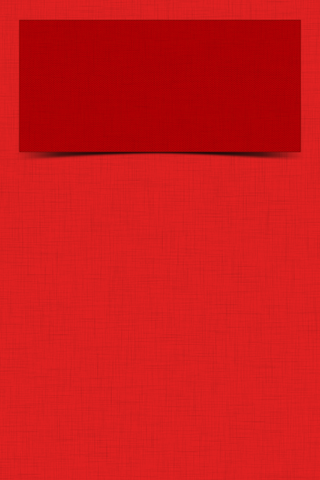
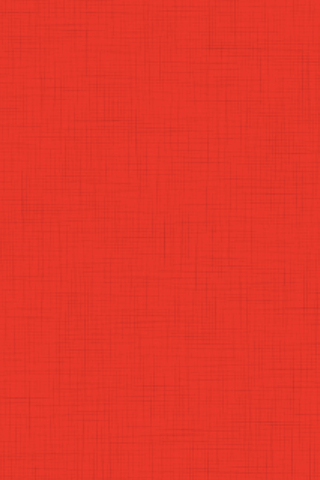
iPhone 5 and iOS6 ready

diff --git a/FrenchPress/FrenchpressViewController.m b/FrenchPress/FrenchpressViewController.m
@@ -8,6 +8,7 @@
 #import "InAppSettingsKit/Models/IASKSpecifier.h"
 #import "InAppSettingsKit/Models/IASKSettingsReader.h"
 #import "Constants.h"
+#import "UIDevice+Resolutions.h"
 
 @interface FrenchpressViewController ()
 
@@ -55,8 +56,7 @@ CoffeState coffeeState;
 -(void)viewDidLoad
 {
     [super viewDidLoad];
-    
-    NSLog(@"ViewDidLoad");
+//    NSLog(@"ViewDidLoad");
     
     if (!slideToCancel) {
 		// Create the slider
@@ -65,22 +65,34 @@ CoffeState coffeeState;
 		
 		// Position the slider off the bottom of the view, so we can slide it up
 		CGRect sliderFrame = slideToCancel.view.frame;
-		sliderFrame.origin.y = self.view.frame.size.height;
+//        NSLog(@"Frame size height: %f", [UIScreen mainScreen].bounds.size.height);
+//		sliderFrame.origin.y = self.view.frame.size.height;
+		sliderFrame.origin.y = [UIScreen mainScreen].bounds.size.height;
 		slideToCancel.view.frame = sliderFrame;
 		
 		[self.view addSubview:slideToCancel.view];
         [self enableSlider];
 	}
+    
     [self setInfoBackgroundImage:[UIImage imageNamed:@"timerBackground"]];
     
     //add background
-    UIImage *backGround = [UIImage imageNamed:@"backgroundPSD"];
-    UIImage *trackImage = [UIImage imageWithCGImage:[backGround CGImage]
+    if ([UIDevice currentResolution] == UIDevice_iPhoneHiRes || [UIDevice currentResolution] == UIDevice_iPadStandardRes) {
+        NSLog(@"Iphone 3-4");
+        self.defaultBackgroundImage = [UIImage imageNamed:@"Default@2x.png"];
+    } else if ([UIDevice currentResolution] == UIDevice_iPhoneTallerHiRes) {
+        NSLog(@"Iphone 5");
+        self.defaultBackgroundImage = [UIImage imageNamed:@"Default-568h@2x.png"];
+    }
+    
+    UIImage *trackImage = [UIImage imageWithCGImage:[self.defaultBackgroundImage CGImage]
                                      scale:2.0 orientation:UIImageOrientationUp];
+    
     UIImageView *background = [[UIImageView alloc] initWithImage:trackImage];
     [self.view addSubview:background];
     self.view.contentMode = UIViewContentModeScaleAspectFit;
     [self.view sendSubviewToBack:background];
+    
     
     // Timer/Info label background
     [self.infoBackground setImage:self.infoBackgroundImage];
@@ -115,22 +127,6 @@ CoffeState coffeeState;
     [self presentModalViewController:self.navSettingsViewController animated:YES];
 }
 
-
--(void)viewWillDisappear:(BOOL)animated
-{
-    [super viewWillDisappear:animated];
-    NSLog(@"ViewWillDisappear");
-    [self.frenchPress setImage:nil];
-}
-
--(void)viewWillAppear:(BOOL)animated
-{
-    [super viewWillAppear:animated];
-    NSLog(@"ViewWillAppear");
-//    [self.frenchPress setAnimImage:[[self.frenchPress animationImages] objectAtIndex:[self.frenchPress self.frenchpress.animIndex]]];
-    [self.frenchPress setImage: [self.frenchPress animImage]];
-}
-
 - (void)settingDidChange:(NSNotification*)notification {
     if ([notification.object isEqual:@"waterTime"]) {
 		NSString *steeptime = [notification.userInfo objectForKey:@"waterTime"];
@@ -151,7 +147,6 @@ CoffeState coffeeState;
 - (void)settingsViewControllerDidEnd:(IASKAppSettingsViewController*)sender {
 	// your code here to reconfigure the app for changed settings
     [self dismissModalViewControllerAnimated:YES];
-    NSLog(@"Settings ViewController did end");
     
 //    NSTimeInterval enabled = [[[NSUserDefaults standardUserDefaults] stringForKey:@"steepTime"] floatValue];
 //    NSLog(@"Steep time is: %f", enabled);
@@ -218,13 +213,13 @@ CoffeState coffeeState;
 -(void)stopTimers
 {
     if (self.paintingTimer != nil) {
-        NSLog(@"Countdown timer stopped");
+//        NSLog(@"Countdown timer stopped");
         [self.paintingTimer invalidate];
     }
     
     if (self.coffeeTimer != nil) {
         [self.coffeeTimer invalidate];
-        NSLog(@"Coffee timer stopped");
+//        NSLog(@"Coffee timer stopped");
     }
 }
 
@@ -332,7 +327,7 @@ CoffeState coffeeState;
                     
                     [self.frenchPress stopAnim]; // Stop previus begin animation
                     [[self frenchPress] animImages:[self animationArrayStir]];
-                    [[self frenchPress] setAnimDuration:[self bloomTime]]; //TODO should /2
+                    [[self frenchPress] setAnimDuration:[self bloomTime] / 1]; //TODO should /2
                     [[self frenchPress] animRepeatCount: 1]; // TODO should 2
                     [[self frenchPress] startAnim];
                 }
@@ -442,6 +437,30 @@ CoffeState coffeeState;
         }
     }
     
+    
+    // First stir anim
+    for (NSUInteger i = 7; i < 14; i++) {
+        UIImage *image = [UIImage imageNamed:[NSString stringWithFormat:@"animStir%02u", i]];
+        if (image) {
+            [self.animationArrayStir addObject:image];
+        }
+    }
+    
+    for (NSUInteger i = 14; i > 0; i--) {
+        UIImage *image = [UIImage imageNamed:[NSString stringWithFormat:@"animStir%02u", i]];
+        if (image) {
+            [self.animationArrayStir addObject:image];
+        }
+    }
+    
+    for (NSUInteger i = 0; i <= 7; i++) {
+        UIImage *image = [UIImage imageNamed:[NSString stringWithFormat:@"animStir%02u", i]];
+        if (image) {
+            [self.animationArrayStir addObject:image];
+        }
+    }
+    
+    // Second stir anim, simple hack to show it as twice as fast
     for (NSUInteger i = 7; i < 14; i++) {
         UIImage *image = [UIImage imageNamed:[NSString stringWithFormat:@"animStir%02u", i]];
         if (image) {

diff --git a/FrenchPress/UIDevice+Resolutions.m b/FrenchPress/UIDevice+Resolutions.m
@@ -1,0 +1,27 @@
+#import "UIDevice+Resolutions.h"
+
+@implementation UIDevice (Resolutions)
+
++ (UIDeviceResolution) currentResolution {
+    if(UI_USER_INTERFACE_IDIOM() == UIUserInterfaceIdiomPhone){
+        if ([[UIScreen mainScreen] respondsToSelector: @selector(scale)]) {
+            CGSize result = [[UIScreen mainScreen] bounds].size;
+            result = CGSizeMake(result.width * [UIScreen mainScreen].scale, result.height * [UIScreen mainScreen].scale);
+            
+            if (result.height == 960) {
+                return UIDevice_iPhoneHiRes;
+            } else if (result.height == 480) {
+                return UIDevice_iPadStandardRes;
+            } else if (result.height == 1136) {
+                return UIDevice_iPhoneTallerHiRes;
+            }
+            //            return (result.height == 960 ? UIDevice_iPhoneHiRes : UIDevice_iPhoneTallerHiRes);
+            // Fallback
+            return UIDevice_iPhoneStandardRes;
+        } else
+            return UIDevice_iPhoneStandardRes;
+    } else
+        return (([[UIScreen mainScreen] respondsToSelector: @selector(scale)]) ? UIDevice_iPadHiRes : UIDevice_iPadStandardRes);
+}
+
+@end

diff --git a/FrenchPress/UIDevice+Resolutions.h b/FrenchPress/UIDevice+Resolutions.h
@@ -1,0 +1,15 @@
+#import <UIKit/UIKit.h>
+
+enum {
+    UIDevice_iPhoneStandardRes      = 1,    // iPhone 1,3,3GS Standard Resolution   (320x480px)
+    UIDevice_iPhoneHiRes            = 2,    // iPhone 4,4S High Resolution          (640x960px)
+    UIDevice_iPhoneTallerHiRes      = 3,    // iPhone 5 High Resolution             (640x1136px)
+    UIDevice_iPadStandardRes        = 4,    // iPad 1,2 Standard Resolution         (1024x768px)
+    UIDevice_iPadHiRes              = 5     // iPad 3 High Resolution               (2048x1536px)
+}; typedef NSUInteger UIDeviceResolution;
+
+@interface UIDevice (Resolutions) { }
+
++ (UIDeviceResolution) currentResolution;
+
+@end

diff --git a/FrenchPress/FrenchpressViewController.h b/FrenchPress/FrenchpressViewController.h
@@ -7,7 +7,7 @@
     <SlideToCancelDelegate, IASKSettingsDelegate>
 {
     SlideToCancelViewController *slideToCancel;
-    IASKAppSettingsViewController *appSettingsViewController;
+//    IASKAppSettingsViewController *appSettingsViewController;
 }
 
 @property (nonatomic, retain) IASKAppSettingsViewController *appSettingsViewController;
@@ -25,6 +25,7 @@
 // Info and timer label background view and image
 @property (nonatomic, strong) IBOutlet UIImageView *infoBackground;
 @property (nonatomic, strong) UIImage *infoBackgroundImage;
+@property (nonatomic, strong) UIImage *defaultBackgroundImage;
 
 
 @property (nonatomic, strong) NSMutableString *timerString;

diff --git a/FrenchPress/AnimUIImageView.m b/FrenchPress/AnimUIImageView.m
@@ -66,6 +66,14 @@
 //        NSLog(@"animIndex: END");
         [self.animTimer invalidate];
         self.animIndex = 0;
+        
+//        NSLog(@"Repeat count: %u", self.animCount);
+//        if (self.animCount) {
+//            NSLog(@"start Againnnn");
+//            [self stopAnim];
+//            [self startAnim];
+//            self.animationRepeatCount--;
+//        }
     }
     
 }
